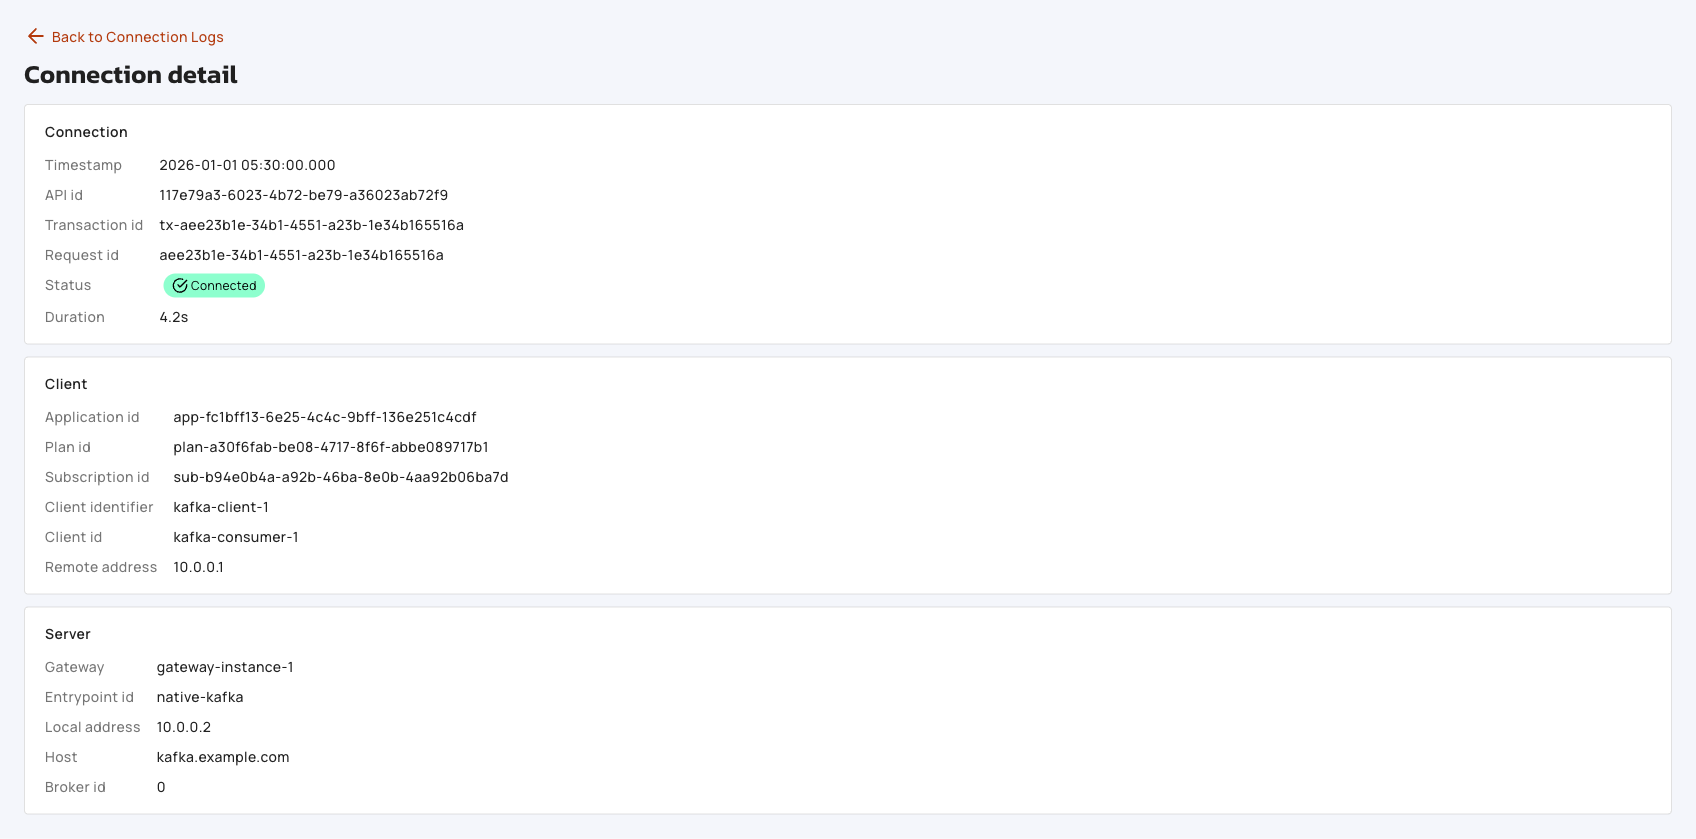
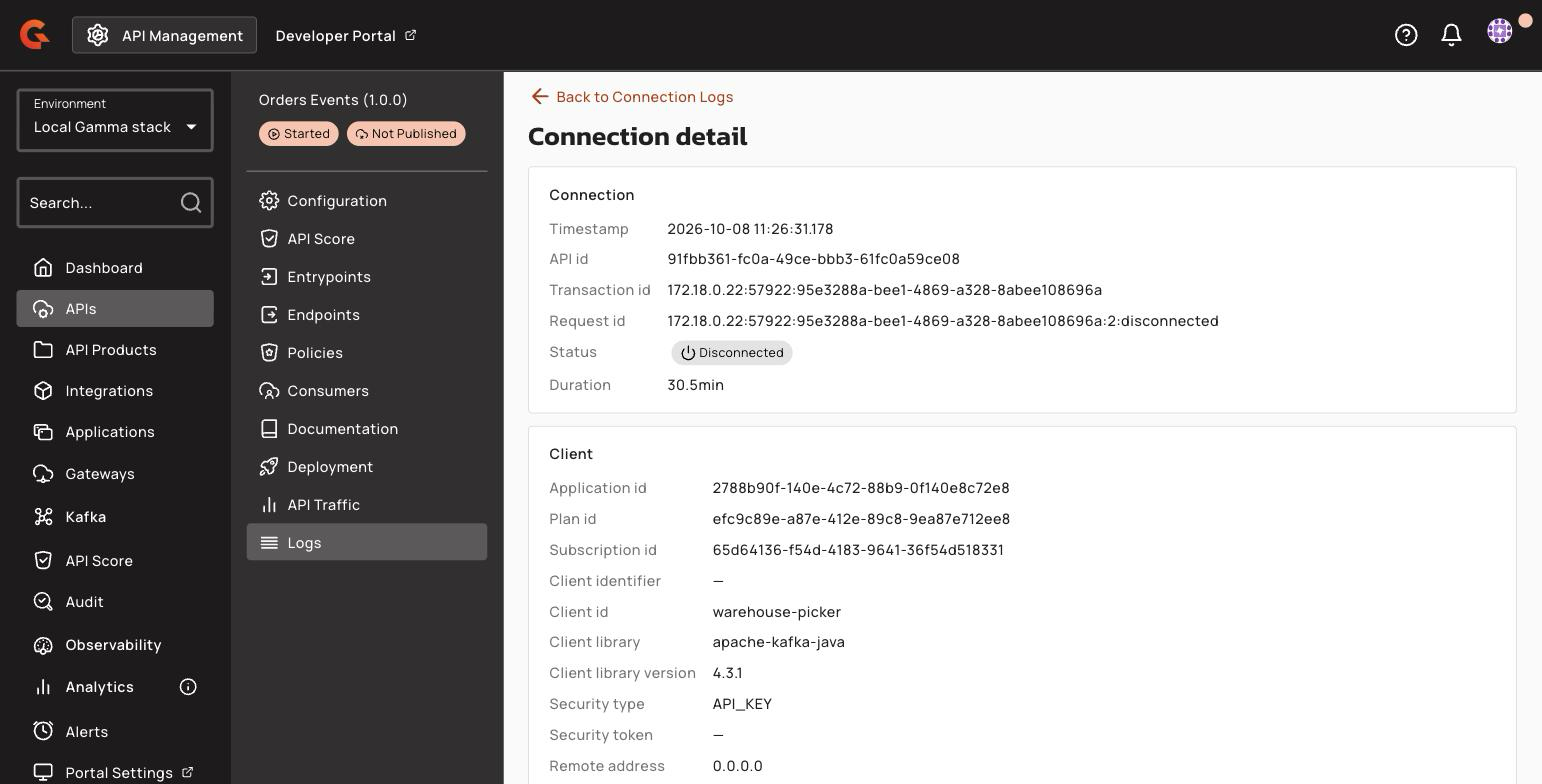
docs(gamma-4.13, apim-4.13): capture the dead letter queue, Virtual Cluster and connection logs
- Event Stream Management: a Webhook entrypoint sending failed messages to a dead letter
  queue endpoint group, and a Kafka Service that can't start while its Virtual Cluster is
  undeployed.
- APIM: the native Kafka connection logs list with its five summary cards, and a log
  detail showing the client library, client library version and security type.

diff --git a/docs/apim/4.13/analyze-and-monitor-apis/logging/configuring-and-viewing-native-api-connection-logs.md b/docs/apim/4.13/analyze-and-monitor-apis/logging/configuring-and-viewing-native-api-connection-logs.md
@@ -59,7 +59,7 @@ The following table describes the logs table:
 
 To view connection log details, click the eye icon on any row in the connection logs table. The URL pattern is `.../v4/runtime-logs-native/<requestId>?from=...&to=...&<filters>`. This is direct-linkable. The page has a back link and the following stacked cards:
 
-<figure><img src="../../.gitbook/assets/apim-native-connection-log-detail.png" alt="Connection log detail page showing Connection, Client, and Server information cards for a connected session"><figcaption><p>Connection log detail for a successful connection</p></figcaption></figure>
+<figure><img src="../../.gitbook/assets/apim-native-connection-log-detail.png" alt="Connection log detail page for a Disconnected entry, with the Connection card and the Client card showing the client ID, client library, client library version, and security type"><figcaption><p>Connection log detail for a connection that closed normally</p></figcaption></figure>
 
 The following table describes the Connection card:
 

diff --git a/docs/gamma/4.13/event-stream-management/apis/kafka-services/create-a-kafka-service-with-a-virtual-cluster.md b/docs/gamma/4.13/event-stream-management/apis/kafka-services/create-a-kafka-service-with-a-virtual-cluster.md
@@ -68,6 +68,8 @@ The console confirms with **Kafka Service created** and opens the **Overview** p
 
 A Kafka Service can't start while its Virtual Cluster isn't deployed. When you open such a Kafka Service, a **Virtual Cluster not deployed** banner names the Virtual Cluster and links to it, and the **Start** button of the page header, the **Start Kafka Service** tile of the **Settings** page, and the **Start** action of its row in the **Kafka Services** list are disabled. Deploy the Virtual Cluster, then start the Kafka Service.
 
+<figure><img src="../../.gitbook/assets/gamma-esm-kafka-service-virtual-cluster-not-deployed.png" alt="The Overview page of a stopped Kafka Service bound to an undeployed Virtual Cluster, with the Virtual Cluster not deployed banner and the Start button disabled"><figcaption><p>A Kafka Service can't start before its Virtual Cluster is deployed</p></figcaption></figure>
+
 ## Verification
 
 To verify the Kafka Service, follow these steps:

diff --git a/docs/gamma/4.13/event-stream-management/apis/message-apis/configure-entrypoints.md b/docs/gamma/4.13/event-stream-management/apis/message-apis/configure-entrypoints.md
@@ -59,6 +59,8 @@ The list offers the endpoints and the endpoint groups of every group except the 
 
 While **Enable dead letter queue** is selected, **Save entrypoint** stays disabled until you select an endpoint or a group.
 
+<figure><img src="../../.gitbook/assets/gamma-esm-message-api-webhook-dlq.png" alt="The configuration of a Webhook entrypoint, with Enable dead letter queue selected and the dead-letter-queue endpoint group chosen as the dead letter queue endpoint"><figcaption><p>A Webhook entrypoint with a dead letter queue</p></figcaption></figure>
+
 ## Delete an entrypoint
 
 1. In the **Entrypoint types** table, click the delete icon of the entrypoint.
